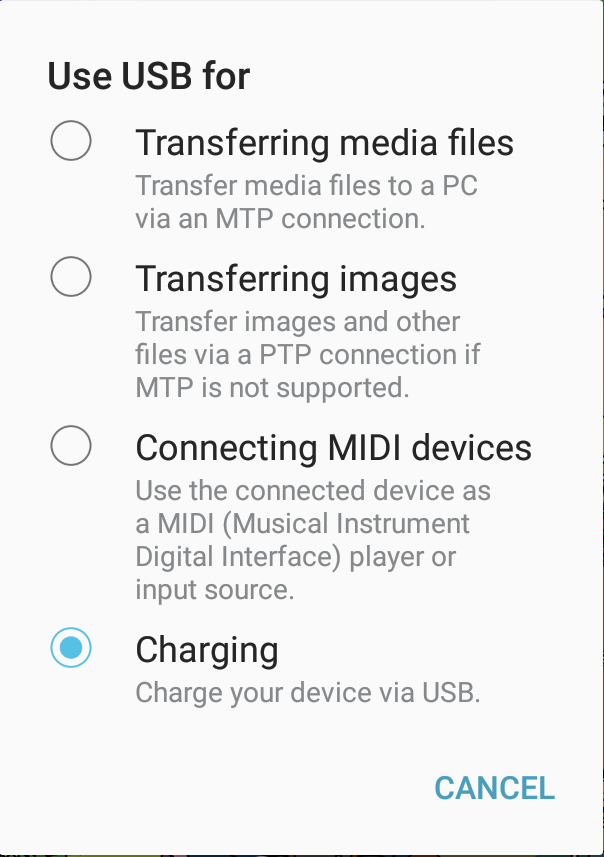
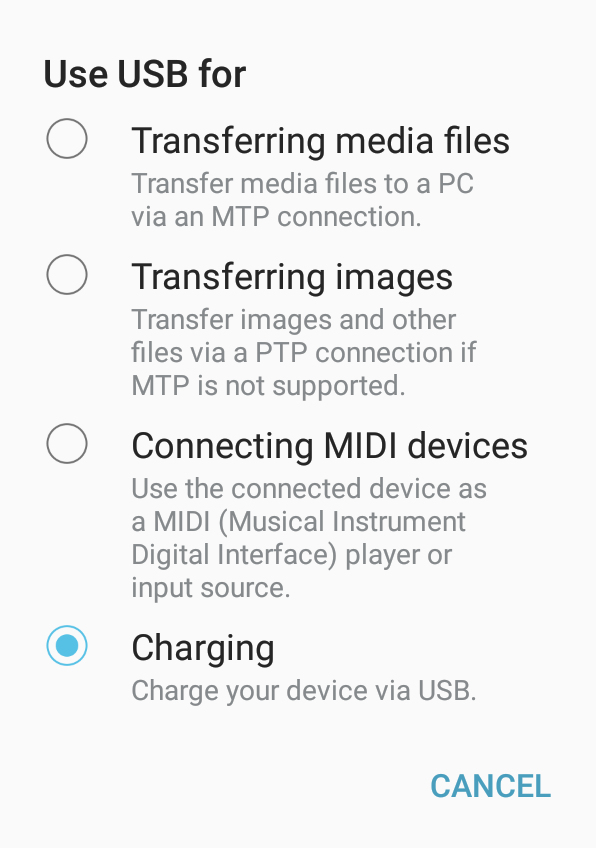
added device disconnection

diff --git a/app/containers/HomePage/components/HelpPhoneNotRecognized.jsx b/app/containers/HomePage/components/HelpPhoneNotRecognized.jsx
@@ -103,7 +103,7 @@ class HelpPhoneNotRecognized extends PureComponent {
             <UsbIcon />
           </ListItemIcon>
           <ListItemText
-            primary="Unplug your phone and reconnect it"
+            primary={`Unplug your ${deviceLabel.toLowerCase()} and reconnect it`}
             secondary={`Follow the instructions below if your ${deviceLabel.toLowerCase()} is still undetected`}
           />
         </ListItem>
@@ -159,7 +159,7 @@ class HelpPhoneNotRecognized extends PureComponent {
             <CachedIcon />
           </ListItemIcon>
           <ListItemText
-            primary="Tap on the 'Refresh' button in the app if the phone doesn't get connected automatically"
+            primary={`Tap on the 'Refresh' button in the app if the ${deviceLabel.toLowerCase()} doesn't get connected automatically`}
             secondary={hotplugSettingText}
           />
         </ListItem>
@@ -185,24 +185,31 @@ class HelpPhoneNotRecognized extends PureComponent {
     );
   };
 
-  RenderBasicConnection = ({ showUnplugPhone = true }) => {
+  RenderBasicConnection = ({
+    showUnplugPhone = true,
+    showUnlockPhone = true,
+  }) => {
     const { RenderFileTransfer } = this;
 
     return (
       <>
-        <ListItem>
-          <ListItemIcon>
-            <LockOpenIcon />
-          </ListItemIcon>
-          <ListItemText primary="Unlock your Android device" />
-        </ListItem>
+        {showUnlockPhone && (
+          <ListItem>
+            <ListItemIcon>
+              <LockOpenIcon />
+            </ListItemIcon>
+            <ListItemText primary="Unlock your Android device" />
+          </ListItem>
+        )}
 
         {showUnplugPhone && (
           <ListItem>
             <ListItemIcon>
               <UsbIcon />
             </ListItemIcon>
-            <ListItemText primary="Unplug your phone and reconnect it" />
+            <ListItemText
+              primary={`Unplug your ${deviceLabel.toLowerCase()} and reconnect it`}
+            />
           </ListItem>
         )}
 
@@ -222,7 +229,7 @@ class HelpPhoneNotRecognized extends PureComponent {
             <CachedIcon />
           </ListItemIcon>
           <ListItemText
-            primary="Tap on the 'Refresh' button in the app if the phone doesn't get connected automatically"
+            primary={`Tap on the 'Refresh' button in the app if the ${deviceLabel.toLowerCase()} doesn't get connected automatically`}
             secondary={hotplugSettingText}
           />
         </ListItem>
@@ -307,7 +314,7 @@ class HelpPhoneNotRecognized extends PureComponent {
                     <FiberManualRecordIcon />
                   </ListItemIcon>
                   <ListItemText
-                    primary={`If you don't see the "Allow access to the device data" pop up then reconnect your phone`}
+                    primary={`If you don't see the "Allow access to the device data" pop up then reconnect your ${deviceLabel.toLowerCase()}`}
                     secondary={`Follow the instructions below if your ${deviceLabel.toLowerCase()} is still undetected`}
                   />
                 </ListItem>
@@ -317,7 +324,7 @@ class HelpPhoneNotRecognized extends PureComponent {
                     <FiberManualRecordIcon />
                   </ListItemIcon>
                   <ListItemText
-                    primary={`If you are prompted to "Allow access to the device data" multiple times then reconnect your phone and try again`}
+                    primary={`If you are prompted to "Allow access to the device data" multiple times then reconnect your ${deviceLabel.toLowerCase()} and try again`}
                   />
                 </ListItem>
               </List>
@@ -380,6 +387,55 @@ class HelpPhoneNotRecognized extends PureComponent {
                 </ListItem>
 
                 <RenderBasicConnection showUnplugPhone={false} />
+              </List>
+            </AccordionDetails>
+          </Accordion>
+
+          {/* <----- phone gets disconnected everytime screen goes into sleep -----> */}
+          <Accordion className={styles.expansionRoot}>
+            <AccordionSummary expandIcon={<ExpandMoreIcon />}>
+              <Typography className={styles.heading}>
+                {`My ${deviceLabel.toLowerCase()} gets disconnected everytime the display goes into sleep`}
+              </Typography>
+            </AccordionSummary>
+
+            <AccordionDetails>
+              <List component="div" disablePadding>
+                <ListItem>
+                  <ListItemIcon>
+                    <FiberManualRecordIcon />
+                  </ListItemIcon>
+                  <ListItemText
+                    primary={`In a very rare case your ${deviceLabel.toLowerCase()} may get disconnected when your display goes into sleep. This may disrupt any active file transfers`}
+                  />
+                </ListItem>
+
+                <ListItem>
+                  <ListItemIcon>
+                    <LockOpenIcon />
+                  </ListItemIcon>
+                  <ListItemText primary="Unlock your Android device" />
+                </ListItem>
+
+                <ListItem>
+                  <ListItemIcon>
+                    <RadioButtonCheckedIcon />
+                  </ListItemIcon>
+                  <ListItemText
+                    primary={`Open ${deviceLabel.toLowerCase()}'s Settings > Display > Sleep and set it as 30 minutes or whatever is the highest`}
+                    secondary={
+                      <>
+                        <img
+                          src={imgsrc(`help/sleep-setting.jpg`)}
+                          alt="Sleep settings"
+                          className={styles.imagePlaceholder}
+                        />
+                      </>
+                    }
+                  />
+                </ListItem>
+
+                <RenderBasicConnection showUnlockPhone={false} />
               </List>
             </AccordionDetails>
           </Accordion>

diff --git a/app/containers/HomePage/components/FileExplorerTableBodyEmptyRender.jsx b/app/containers/HomePage/components/FileExplorerTableBodyEmptyRender.jsx
@@ -103,7 +103,6 @@ class FileExplorerTableBodyEmptyRender extends PureComponent {
           <TableCell colSpan={6} className={styles.tableCell}>
             <Paper style={{ height: `100%` }} elevation={0}>
               <Button
-                color="secondary"
                 className={styles.helpPhoneNotRecognized}
                 onClick={() => {
                   this._handleHelpPhoneNotRecognizedBtn(true);

diff --git a/app/containers/HomePage/styles/FileExplorerTableBodyEmptyRender.js b/app/containers/HomePage/styles/FileExplorerTableBodyEmptyRender.js
@@ -7,6 +7,7 @@ export const styles = (theme) => ({
   helpPhoneNotRecognized: {
     width: '100%',
     ...mixins({ theme }).center,
+    color: theme.palette.snackbar.error,
   },
   noMtp: {
     marginTop: 10,

diff --git a/app/templates/fileExplorer.js b/app/templates/fileExplorer.js
@@ -1,1 +1,1 @@
-export const helpPhoneNotConnecting = `Help - My phone is not connecting!`;
+export const helpPhoneNotConnecting = `FAQs - My phone is not connecting!`;
